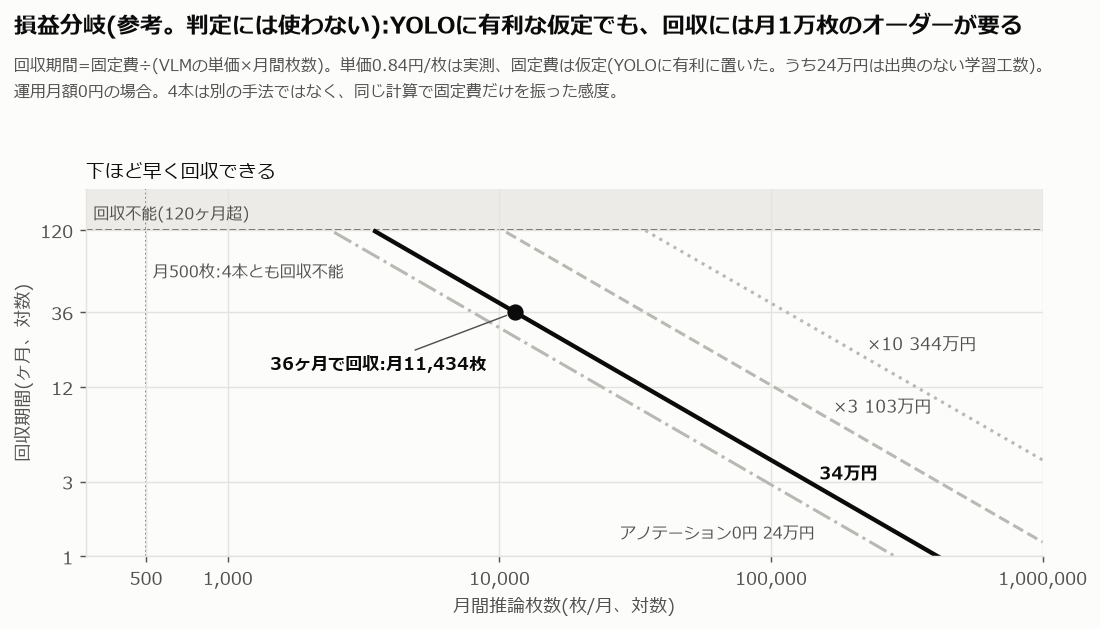
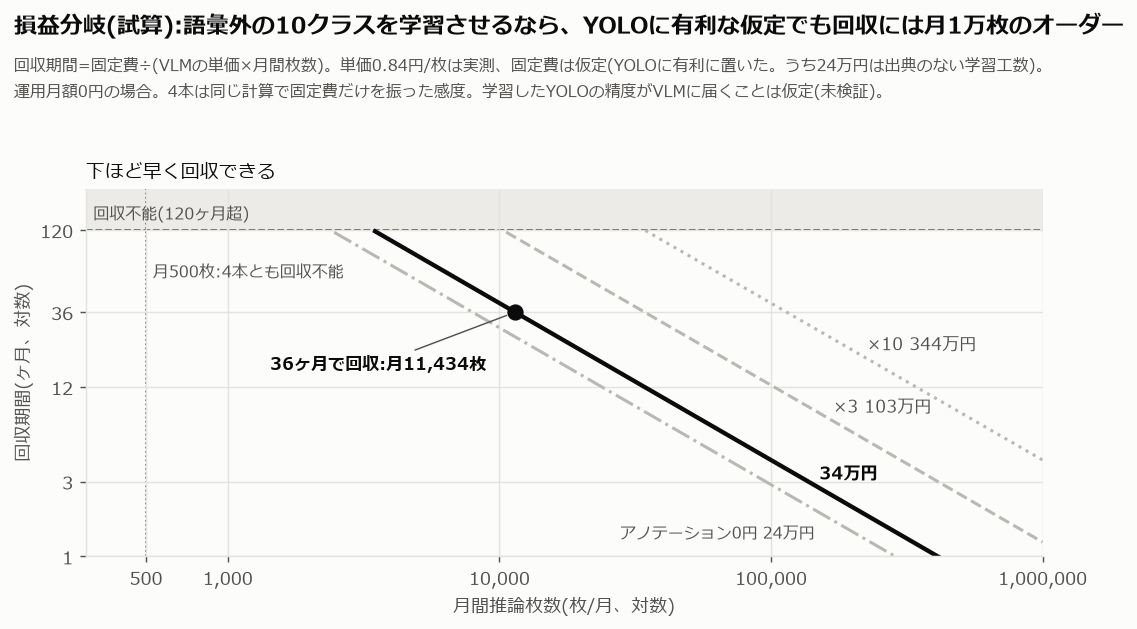
Scope the break-even analysis to labeled out-of-vocabulary tasks
The fixed cost (annotating and training 10 domain classes) belongs to a
task where the detector must be trained, but accuracy parity was only
shown inside the COCO vocabulary, where the pretrained YOLO needs no
training at all. Split the decision into three situations: in-vocabulary
(no training cost, YOLO if inference infrastructure exists),
out-of-vocabulary with labels (the break-even estimate, with the trained
YOLO's accuracy assumed, not measured), and out-of-vocabulary without
labels (VLM). Numbers are unchanged; the figure title and notes are
regenerated.

diff --git a/README.md b/README.md
@@ -11,10 +11,10 @@
 ```mermaid
 flowchart TB
     A["YOLO 既定の閾値・VLM"] -->|"VLMのスコアを使わず閾値を選ぶ: micro-F1が最大の点<br/>結果を見た後に決めた"| B["YOLO 調整後の閾値・VLM"]
-    B -->|"画像単位のペア差CIとMcNemar検定"| C["差を検出できず、精度では決めない"]
-    C -->|"検出器の語彙に無い・ラベルが無い"| D["VLM"]
-    C -->|"語彙内: 処理量が損益分岐に届かない"| E["VLM"]
-    C -->|"語彙内: 処理量が損益分岐を超える"| F["YOLO 調整後の閾値"]
+    B -->|"画像単位のペア差CIとMcNemar検定"| C["語彙内: 差を検出できず、精度では決めない"]
+    C -->|"学習の固定費は無い。推論の基盤があれば"| F["YOLO 調整後の閾値"]
+    X["語彙外のカテゴリ"] -->|"ラベルが無い"| D["VLM"]
+    X -->|"ラベルを作れる（学習したYOLOの精度は未検証）"| G["処理量で分かれる試算<br/>目安は月1万枚のオーダー"]
 ```
 
 ---
@@ -31,7 +31,7 @@ flowchart TB
 | macro-F1の差の内訳 | 3.2ptのうち2.6ptは正例1件の2カテゴリ。正例3件以上に絞ると0.2pt |
 | コスト（300枚） | YOLO 0円（API課金が0という意味）、VLM 251円 |
 | レイテンシ中央値 | YOLO 0.33秒（手元のマシン）、VLM 5.42秒（API経由）。条件が違うので参考の約16倍 |
-| 損益分岐 | YOLOに有利な仮定で累計約41万枚。回収36か月を許すなら月11,434枚 |
+| 損益分岐（語彙外でラベルを作る場合の試算） | YOLOに有利な仮定で累計約41万枚。回収36か月を許すなら月11,434枚。学習したYOLOの精度は未検証 |
 | プロンプト3水準 | ばらつきはmacro-F1で0.46pt。YOLOとの判定は変わらず（事前に決めた規則） |
 | 語彙外のカテゴリ | 配管のチェックリスト10項目中9項目がCOCOの語彙に無く、YOLOは判定できない（定性デモ） |
 
@@ -102,9 +102,11 @@ macro-F1は正例1件のカテゴリも同じ重みなので、1件の正誤で1
 
 ---
 
-## YOLOの固定費を回収できるのは、月1万枚のオーダーから
+## 語彙外のカテゴリを学習させるなら、固定費を回収できるのは月1万枚のオーダーから（試算）
 
-**YOLOに有利な仮定で固定費は34万円、損益分岐は累計約41万枚で、月500枚では固定費を上下に振っても回収できない。**
+**語彙外の10クラスをラベルを作ってYOLOに学習させる場合、YOLOに有利な仮定で固定費は34万円、損益分岐は累計約41万枚で、月500枚では固定費を上下に振っても回収できない。**
+
+この節は、語彙外のカテゴリにラベルを作れる場面の試算である。学習したYOLOがVLMと同じ精度に届くことは確かめていない（届かなければ固定費は膨らむ）。精度の差を検出できなかったCOCOのような語彙内では、YOLOは学習済みのまま使えるので学習の固定費はかからず、推論の基盤があればYOLOの方が安い。
 
 ![YOLOに有利な仮定でも、回収には月1万枚のオーダーが要る](report/figures/breakeven_ja.png)
 
@@ -153,11 +155,11 @@ VLMの累計(Tか月)  = 0.84円/枚 × 月間枚数 × T          （251円 ÷ 
 
 **配管のチェックリスト10項目のうち9項目はCOCOの80クラスに無く、YOLOは閾値によらず`present`を返せない。VLMは追加の学習なしで判定と根拠を返す。**
 
-| | 語彙内・ラベルあり（COCO） | 語彙外・ラベルなし（配管の5枚） |
-| --- | --- | --- |
-| YOLO | 閾値の調整で差を検出できなくなる | 10項目中9項目を判定できない |
-| VLM | 差を検出できない | `present`／`absent`／`uncertain`と根拠を返す |
-| 選択 | 処理量で分かれる（上の2節） | VLM |
+| | 語彙内（COCO） | 語彙外・ラベルを作れる | 語彙外・ラベルなし（配管の5枚） |
+| --- | --- | --- | --- |
+| YOLO | 閾値の調整で差を検出できなくなる。学習の固定費は無い | 学習すれば判定できる。精度は未検証 | 10項目中9項目を判定できない |
+| VLM | 差を検出できない | 追加の学習なしで動く。精度は未検証 | `present`／`absent`／`uncertain`と根拠を返す |
+| 選択 | 推論の基盤があればYOLO | 処理量で分かれる（上の試算、仮定つき） | VLM |
 
 正解ラベルが無いので、精度は測っていない。示したのは、動くかどうかだけである。ラベルを集めれば追加学習はできるが、その精度と費用は確かめていない。
 画像ごとの判定は [REPORT 付録](report/REPORT.md#付録-建設ドメインでの適用可能性デモ定性)。
@@ -215,7 +217,7 @@ VLMの累計(Tか月)  = 0.84円/枚 × 月間枚数 × T          （251円 ÷ 
 | レイテンシ | YOLOは手元のMacで、機種とデバイスの記録が無い。VLMはAPI経由で、ネットワークと時間帯による単発の計測 | 約16倍は参考の値。GPUの有無で変わる | ― |
 | 損益分岐の仮定 | 手戻り1.2、40時間、6,000円/時、1枚5矩形は出典の無い仮定。3,000枚で目標の精度に届くかも確かめていない | 固定費の7割は学習工数の仮定で、「下限」ではない。自分の値で計算し直す前提 | [conf/costs.yaml](conf/costs.yaml) |
 | VLM | 1プロバイダ・1モデル、プロンプト3水準、temperature 0 | ほかのVLMやプロンプトでは変わり得る | [REPORT §2b](report/REPORT.md#2b-vlm-側のプロンプト感度3-水準実行済み結論不変) |
-| 語彙 | COCO 80クラスの中はYOLOの学習範囲で、YOLOに最も有利な条件 | 語彙内の結論は語彙外に当てはまらない | [REPORT §7](report/REPORT.md#7-意思決定ルールまとめ-二象限) |
+| 語彙 | COCO 80クラスの中はYOLOの学習範囲で、YOLOに最も有利な条件 | 語彙内の結論は語彙外に当てはまらない | [REPORT §7](report/REPORT.md#7-意思決定ルールまとめ-三つの場面) |
 | 追加学習 | YOLOのファインチューニングはしていない（COCOで評価するので汚染になる） | 語彙外で追加学習した場合の精度は分からない | [REPORT §6](report/REPORT.md#6-限界脅威) |
 | 座標 | bboxとIoUは測っていない | 座標が要るタスクには当てはまらない | [docs/DESIGN.md](docs/DESIGN.md) |
 | 語彙外のデモ | 5枚・正解ラベルなし | 精度の主張はしない | [REPORT 付録](report/REPORT.md#付録-建設ドメインでの適用可能性デモ定性) |
